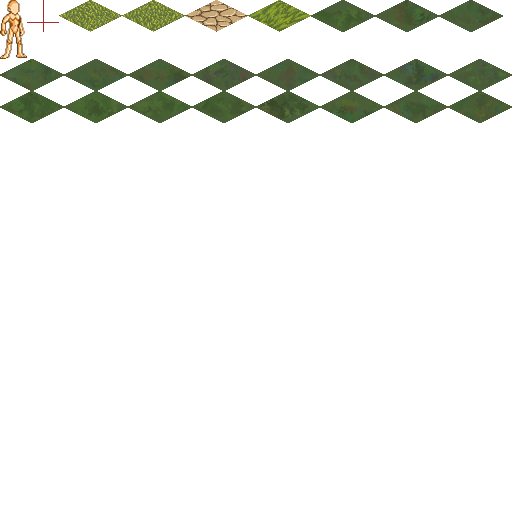
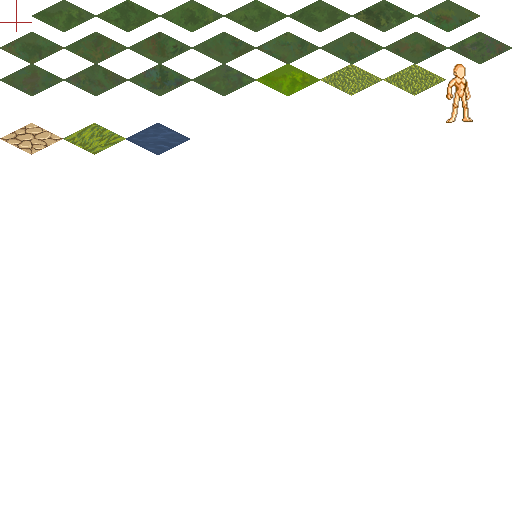
bugfix

Changed region(s): [[0.0, 0.0, 1.0, 0.3125]]

diff --git a/backend/src/com/origin/model/Human.kt b/backend/src/com/origin/model/Human.kt
@@ -40,7 +40,9 @@ abstract class Human(id: ObjectID, x: Int, y: Int, level: Int, region: Int, head
     override suspend fun processMessage(msg: Any) {
         when (msg) {
             is BroadcastEvent.StartMove -> {
-                if (this is Player) session.send(ObjectStartMove(msg))
+                if (knownList.isKnownObject(msg.obj)) {
+                    if (this is Player) session.send(ObjectStartMove(msg))
+                }
             }
             is BroadcastEvent.Moved -> {
                 // если мы знаем объект
@@ -56,8 +58,8 @@ abstract class Human(id: ObjectID, x: Int, y: Int, level: Int, region: Int, head
                     // объект не знаем. но видим
                     if (isObjectVisibleForMe(msg.obj)) {
                         knownList.addKnownObject(msg.obj)
+                        if (this is Player) session.send(ObjectMoved(msg))
                     }
-                    if (this is Player) session.send(ObjectMoved(msg))
                 }
             }
             is BroadcastEvent.Stopped -> {
@@ -74,7 +76,6 @@ abstract class Human(id: ObjectID, x: Int, y: Int, level: Int, region: Int, head
                     // объект не знаем. но видим
                     if (isObjectVisibleForMe(msg.obj)) {
                         knownList.addKnownObject(msg.obj)
-                    } else {
                         if (this is Player) session.send(ObjectStopped(msg))
                     }
                 }

diff --git a/frontend/src/net/Net.ts b/frontend/src/net/Net.ts
@@ -239,7 +239,9 @@ export default class Net {
                 break;
             }
             case "od": { // object delete
-                Game.instance?.onObjectDelete(Client.instance.objects[(<ObjectDel>data).id])
+                let obj = Client.instance.objects[(<ObjectDel>data).id];
+                obj.moveController?.stop()
+                Game.instance?.onObjectDelete(obj)
                 delete Client.instance.objects[(<ObjectDel>data).id];
                 break;
             }

diff --git a/frontend/src/game/Tile.ts b/frontend/src/game/Tile.ts
@@ -20,6 +20,10 @@ export default class Tile {
             case 0 :
                 return 'grass1'
             case 1 :
+                return 'forest_leaf_1'
+            case 2:
+                return 'test_water_1'
+            case 3:
                 return 'stone1'
             default :
                 // let r = getRandomInt(3) + 1

diff --git a/frontend/src/views/Game.vue b/frontend/src/views/Game.vue
@@ -1,7 +1,7 @@
 <template>
   <div v-if="!active" class="padding-all">
     <div class="login-panel">
-      <div>ENTERING...</div>
+      <div>LOADING...</div>
     </div>
   </div>
 
